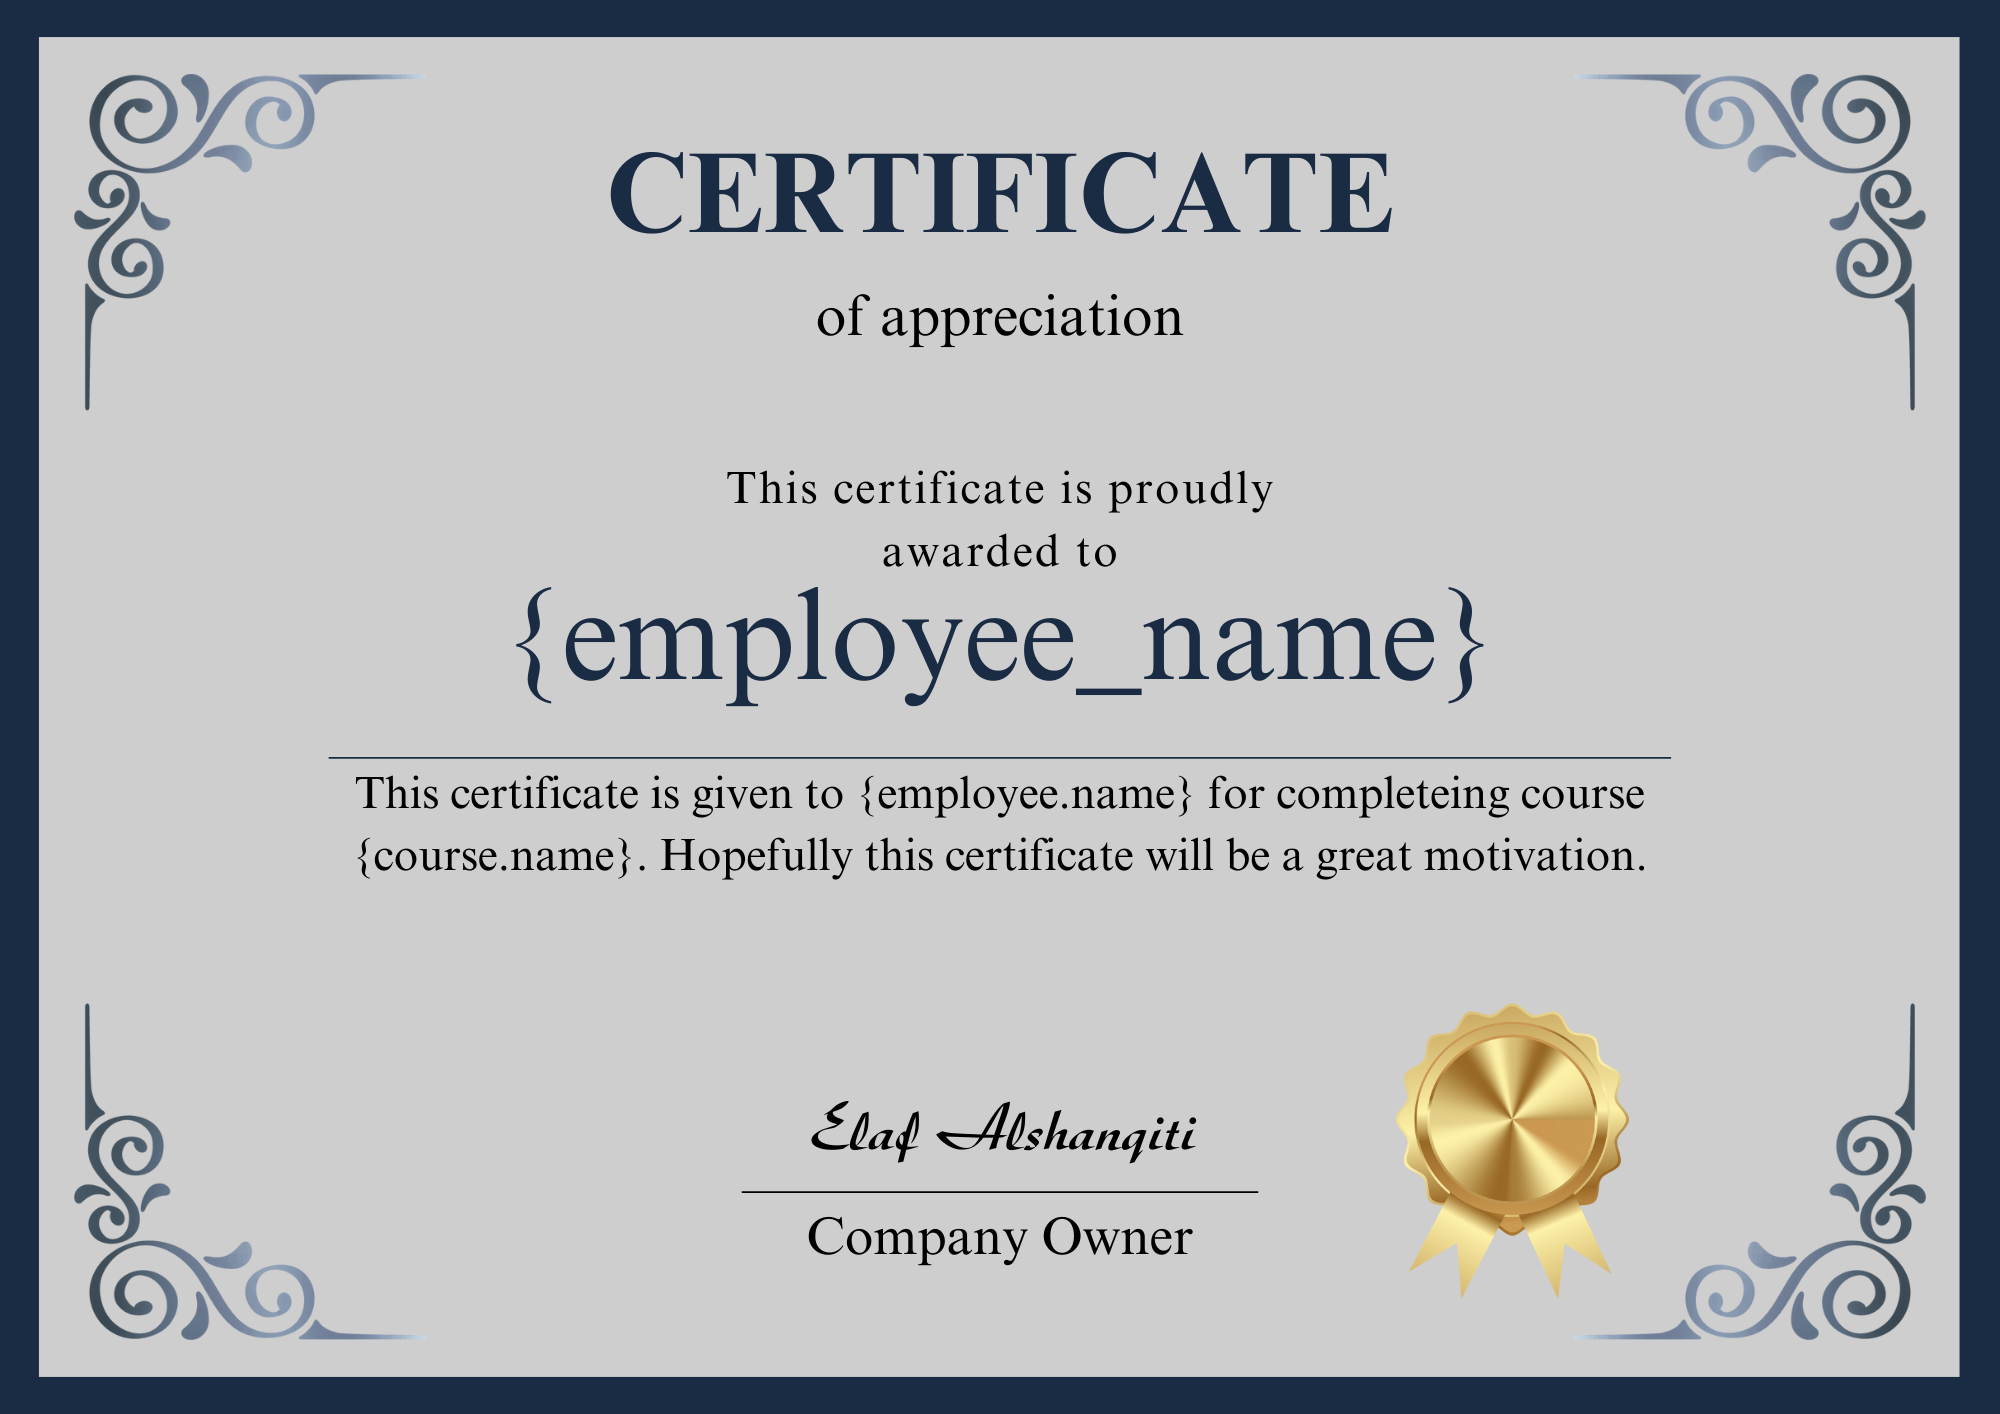
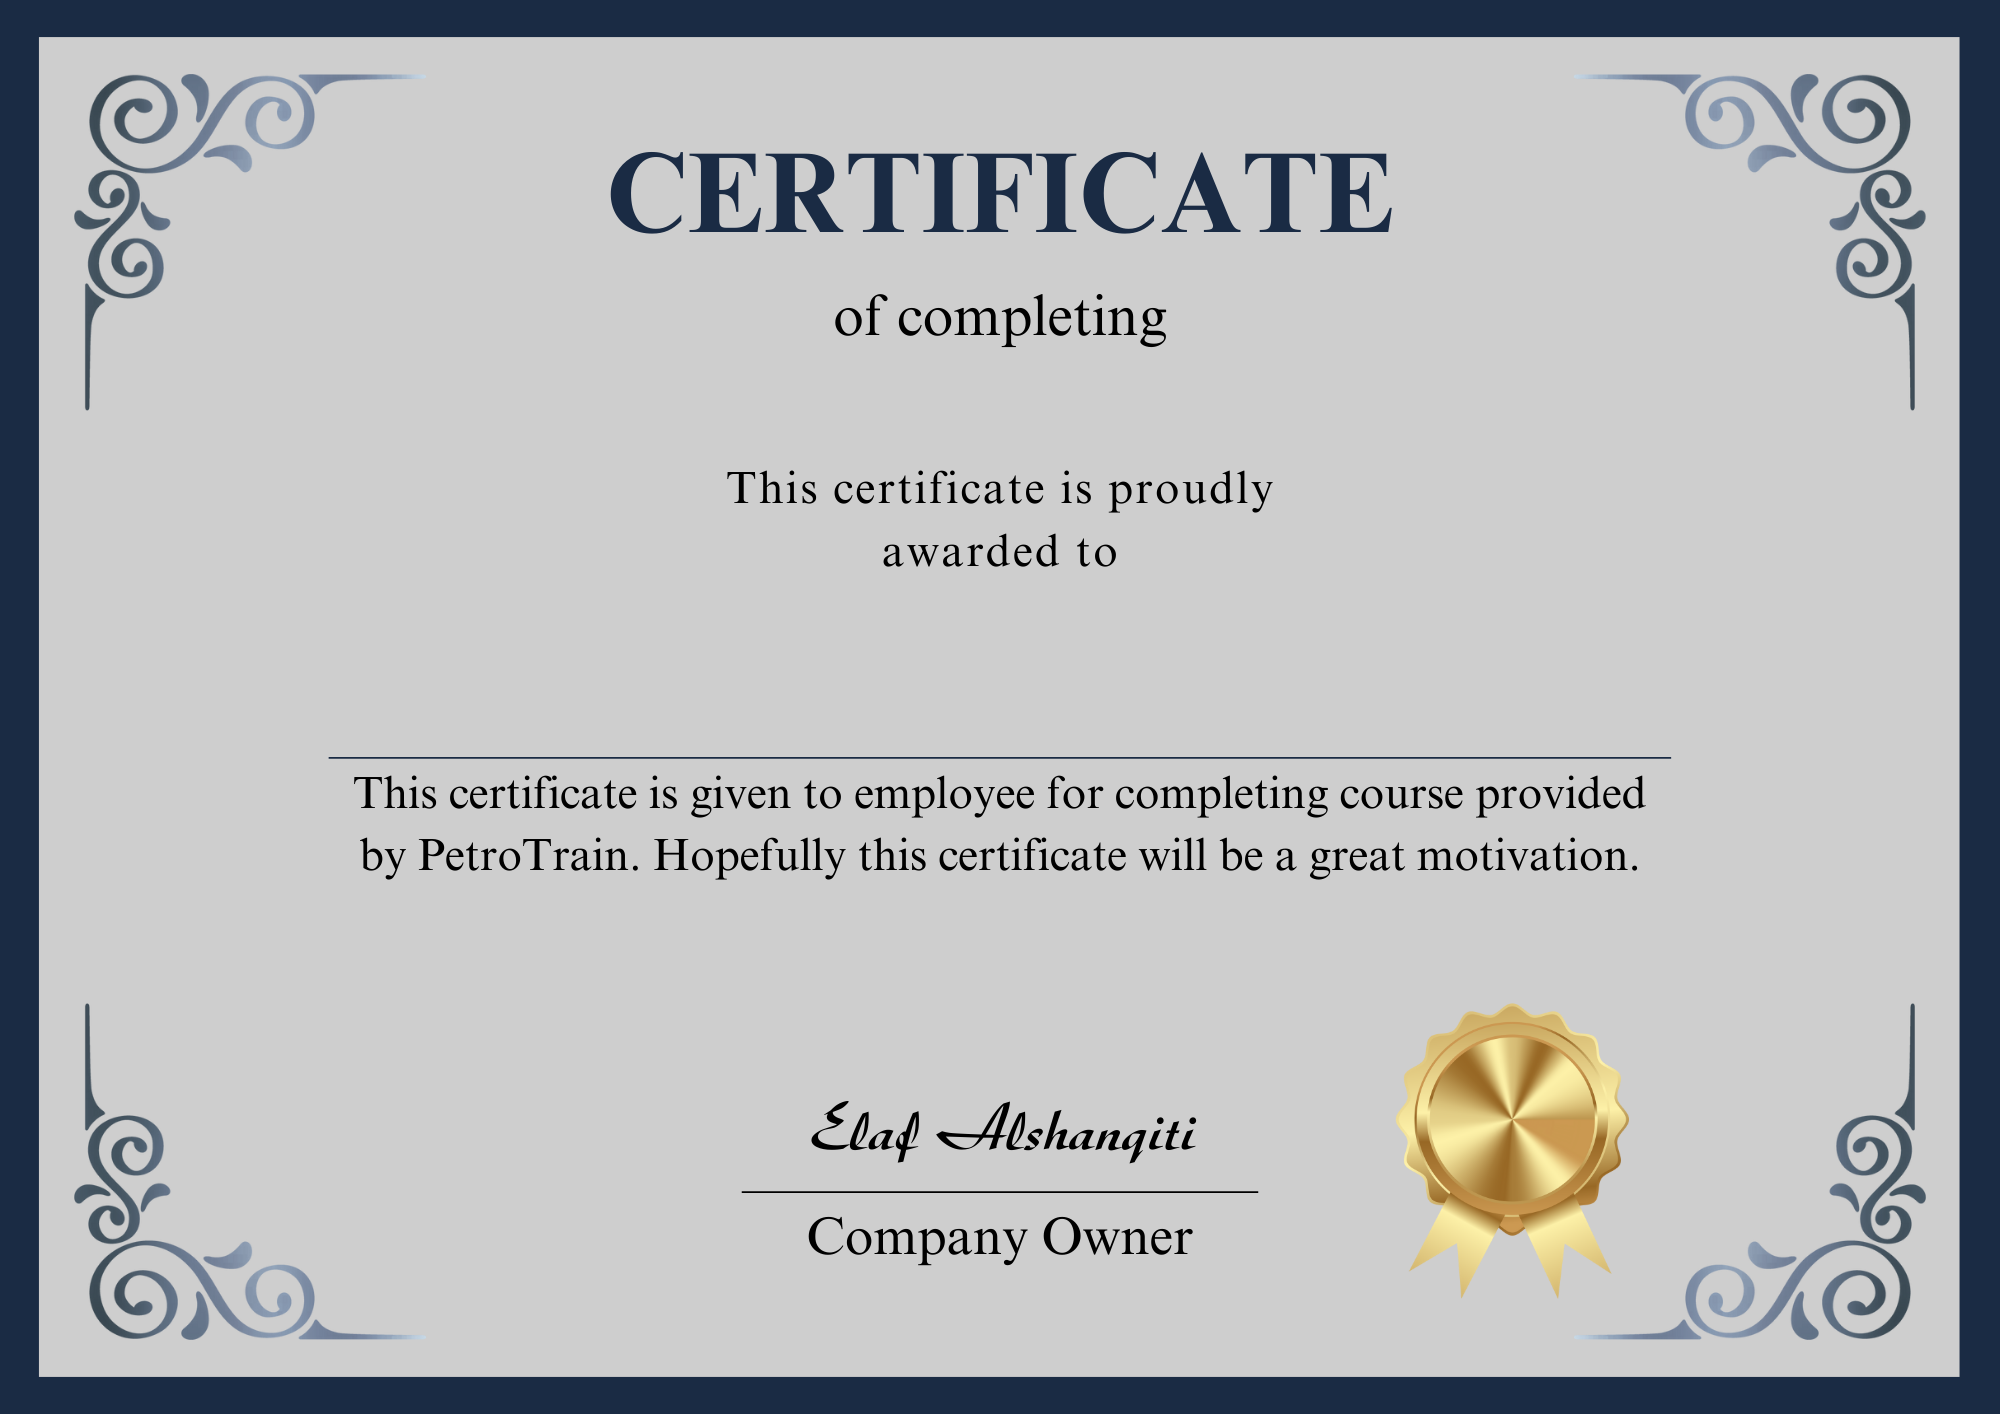
fixed certificate template, now the downloaded png will have employee,course names in the certificate

Changed region(s): [[0.186, 0.529, 0.837, 0.6223], [0.248, 0.4045, 0.744, 0.4979], [0.403, 0.2178, 0.589, 0.2489]]

diff --git a/training/utils.py b/training/utils.py
@@ -1,6 +1,7 @@
 from django.contrib.staticfiles import finders
 from PIL import Image, ImageDraw, ImageFont
 import os
+from django.conf import settings
 
 def generate_certificate(employee_name, trainer_name, course_name):
     # Get paths to image and fonts
@@ -13,23 +14,24 @@ def generate_certificate(employee_name, trainer_name, course_name):
     if not font_times_path or not font_amsterdam_path:
         raise FileNotFoundError("Font file not found.")
 
-    # Load image
+    # Path to save the generated certificate
+    output_path = os.path.join(settings.MEDIA_ROOT, f'certificates/{employee_name}_{course_name}.png')
+
+    # Open the certificate template
     image = Image.open(template_path)
     draw = ImageDraw.Draw(image)
 
     # Load fonts
-    font_name = ImageFont.truetype(font_amsterdam_path, size=48)
-    font_course = ImageFont.truetype(font_times_path, size=36)
-    font_trainer = ImageFont.truetype(font_times_path, size=28)
+    font_large = ImageFont.truetype(font_times_path, 48)  # Font for course name
+    font_larger = ImageFont.truetype(font_times_path, 98)  # Font for employee name
 
-    # Draw text on certificate (adjust coordinates as needed)
-    draw.text((400, 300), employee_name, font=font_name, fill='black')
-    draw.text((400, 360), course_name, font=font_course, fill='black')
-    draw.text((400, 420), f"Instructor: {trainer_name}", font=font_trainer, fill='black')
+    # Add text to the certificate
+    draw.text((650, 380), f"{course_name} course", font=font_large, fill="black")  # Employee name
+    draw.text((750, 650), employee_name, font=font_larger, fill="black")   # Course name
+    #draw.text((400, 420), f"Instructor: {trainer_name}", font=font_large, fill="black")  # Trainer name
 
-    # Save certificate
-    output_path = os.path.join("certificates", f"{employee_name}_certificate.png")
-    os.makedirs("certificates", exist_ok=True)
+    # Save the certificate
+    os.makedirs(os.path.dirname(output_path), exist_ok=True)
     image.save(output_path)
 
     return output_path
